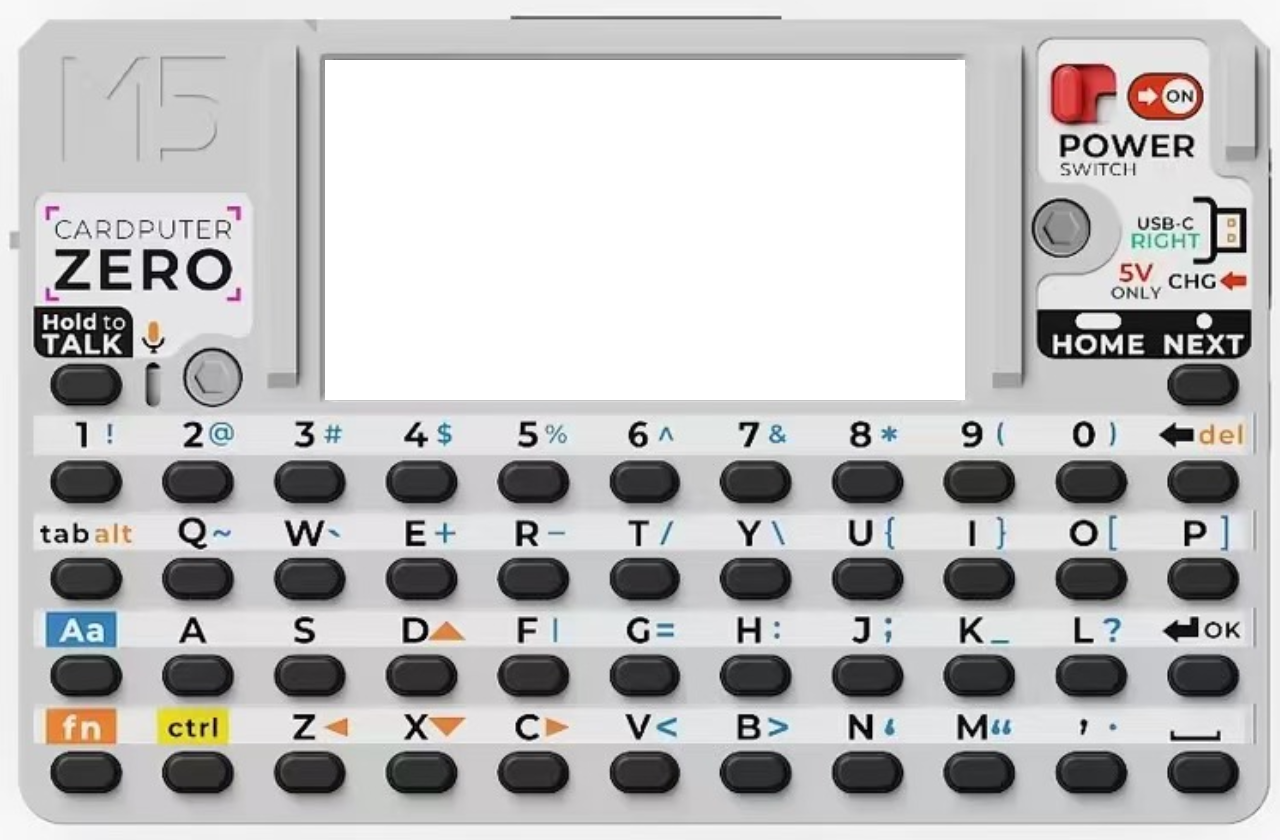
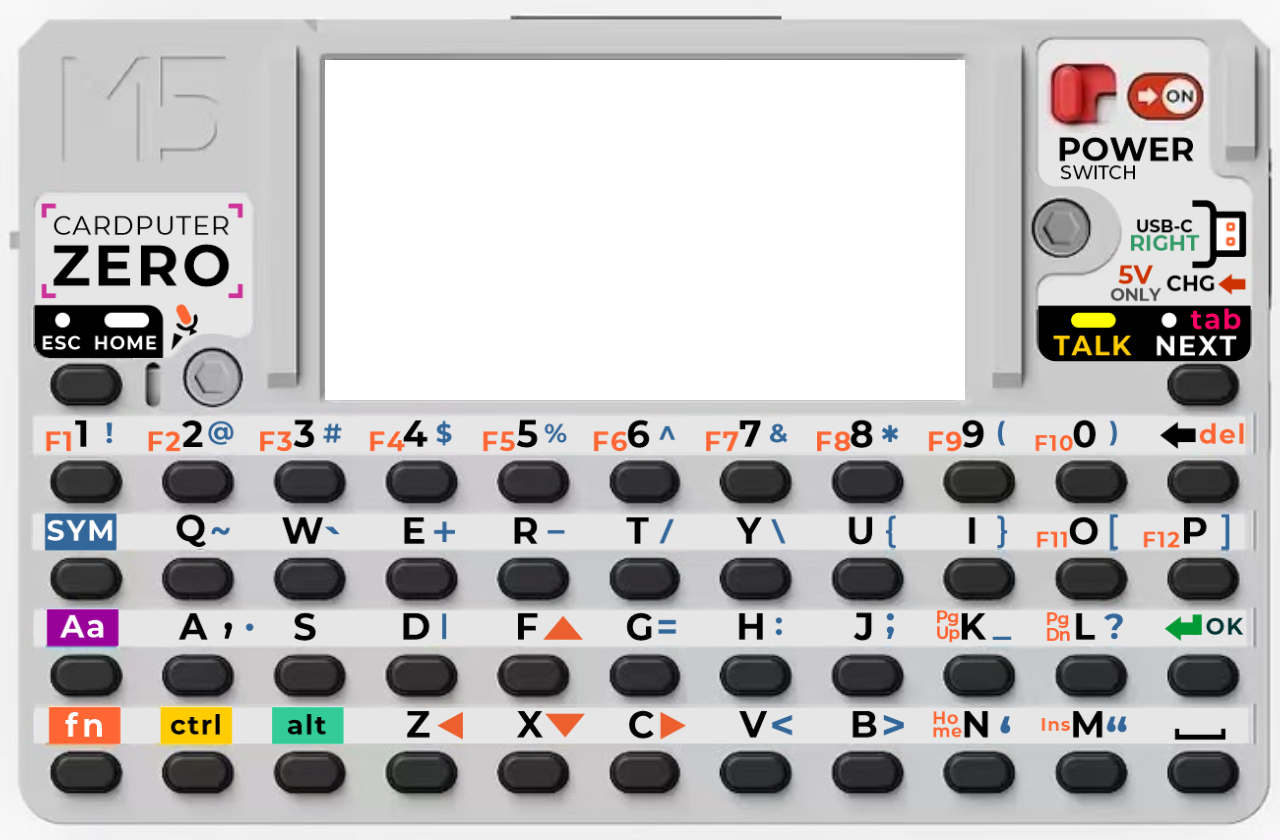
Update skin + restore bottom row + add SYM/alt modifiers
- New skin PNG with corrected sticker labels
- Restore bottom row: fn ctrl alt Z X C V B N M space
- 5 modifier keys with toggle + colored highlights:
  SYM=green, Aa=purple, fn=orange, ctrl=blue, alt=yellow
- Normal keys flash red on press

diff --git a/src/main.cpp b/src/main.cpp
@@ -20,21 +20,61 @@ static constexpr float SCALE = 0.5f;
 
 struct KeyRect { int x, y, w, h; SDL_Keycode key; };
 static KeyRect g_keys[4][11] = {
+    // Row 0: 1-0 del
     {{51,461,70,41,SDLK_1},{162,461,71,42,SDLK_2},{274,461,71,41,SDLK_3},{386,461,71,41,SDLK_4},
      {497,461,71,41,SDLK_5},{610,461,69,41,SDLK_6},{720,461,71,42,SDLK_7},{832,461,71,42,SDLK_8},
      {944,461,70,42,SDLK_9},{1056,461,71,41,SDLK_0},{1168,461,70,42,SDLK_BACKSPACE}},
+    // Row 1: tab Q-P
     {{51,558,71,42,SDLK_TAB},{162,558,71,42,SDLK_q},{274,558,71,42,SDLK_w},{386,558,70,42,SDLK_e},
      {497,558,71,42,SDLK_r},{610,558,69,42,SDLK_t},{720,558,71,42,SDLK_y},{832,558,71,42,SDLK_u},
      {944,558,70,42,SDLK_i},{1056,558,71,42,SDLK_o},{1168,558,70,42,SDLK_p}},
+    // Row 2: Aa A-L OK
     {{51,655,70,41,SDLK_LSHIFT},{162,655,71,41,SDLK_a},{274,655,71,41,SDLK_s},{386,655,70,41,SDLK_d},
      {497,655,71,41,SDLK_f},{610,655,69,41,SDLK_g},{720,655,71,41,SDLK_h},{832,655,71,41,SDLK_j},
      {944,655,70,41,SDLK_k},{1056,655,71,42,SDLK_l},{1168,655,70,41,SDLK_RETURN}},
-    // Row 3: fn ctrl Z X C V B N M '. space
-    {{51,752,70,41,SDLK_ESCAPE},{162,752,71,41,SDLK_LCTRL},{274,752,71,41,SDLK_z},
-     {386,752,70,41,SDLK_x},{497,752,71,41,SDLK_c},{610,752,69,41,SDLK_v},
-     {720,752,71,41,SDLK_b},{832,752,71,41,SDLK_n},{944,752,70,41,SDLK_m},
-     {1056,752,71,41,SDLK_PERIOD},{1168,752,70,41,SDLK_SPACE}},
+    // Row 3: fn ctrl alt Z X C V B N M space
+    {{51,752,70,41,SDLK_ESCAPE},{162,752,71,41,SDLK_LCTRL},{274,752,71,41,SDLK_LALT},
+     {386,752,70,41,SDLK_z},{497,752,71,41,SDLK_x},{610,752,69,41,SDLK_c},
+     {720,752,71,41,SDLK_v},{832,752,71,41,SDLK_b},{944,752,70,41,SDLK_n},
+     {1056,752,71,41,SDLK_m},{1168,752,70,41,SDLK_SPACE}},
 };
+
+// ── Modifier key indices ────────────────────────────────────────
+// SYM = row1,col0   Aa = row2,col0   fn = row3,col0   ctrl = row3,col1   alt = row3,col2
+#define MOD_SYM_R  1
+#define MOD_SYM_C  0
+#define MOD_AA_R   2
+#define MOD_AA_C   0
+#define MOD_FN_R   3
+#define MOD_FN_C   0
+#define MOD_CTRL_R 3
+#define MOD_CTRL_C 1
+#define MOD_ALT_R  3
+#define MOD_ALT_C  2
+
+static bool g_mod_sym  = false;  // Symbol layer
+static bool g_mod_aa   = false;  // CapsLock / Shift
+static bool g_mod_fn   = false;  // Fn layer
+static bool g_mod_ctrl = false;  // Ctrl
+static bool g_mod_alt  = false;  // Alt
+
+static bool is_modifier(int r, int c)
+{
+    return (r == MOD_SYM_R && c == MOD_SYM_C) ||
+           (r == MOD_AA_R && c == MOD_AA_C) ||
+           (r == MOD_FN_R && c == MOD_FN_C) ||
+           (r == MOD_CTRL_R && c == MOD_CTRL_C) ||
+           (r == MOD_ALT_R && c == MOD_ALT_C);
+}
+
+static void toggle_modifier(int r, int c)
+{
+    if (r == MOD_SYM_R && c == MOD_SYM_C)   g_mod_sym = !g_mod_sym;
+    if (r == MOD_AA_R && c == MOD_AA_C)      g_mod_aa = !g_mod_aa;
+    if (r == MOD_FN_R && c == MOD_FN_C)      g_mod_fn = !g_mod_fn;
+    if (r == MOD_CTRL_R && c == MOD_CTRL_C)  g_mod_ctrl = !g_mod_ctrl;
+    if (r == MOD_ALT_R && c == MOD_ALT_C)    g_mod_alt = !g_mod_alt;
+}
 
 static int g_pr = -1, g_pc = -1;
 static SDL_Window   *g_win = nullptr;
@@ -43,7 +83,6 @@ static SDL_Texture  *g_skin_tex = nullptr;
 static SDL_Texture  *g_lcd_tex = nullptr;
 static uint32_t     *g_lcd_buf = nullptr;
 
-// Function pointers loaded from app dylib
 typedef void (*sdl_kbd_handler_fn)(SDL_Event *);
 typedef void *(*sdl_kbd_create_fn)(void);
 static sdl_kbd_handler_fn g_kbd_handler = nullptr;
@@ -79,7 +118,7 @@ static void flush_cb(lv_display_t *, const lv_area_t *area, uint8_t *px)
     lv_display_flush_ready(lv_display_get_default());
 }
 
-// ── Inject SDL key event (for virtual keyboard clicks) ──────────
+// ── Inject SDL key event ────────────────────────────────────────
 static void inject_sdl_key(SDL_Keycode key, bool down)
 {
     SDL_Event ev = {};
@@ -90,7 +129,6 @@ static void inject_sdl_key(SDL_Keycode key, bool down)
     ev.key.state = down ? SDL_PRESSED : SDL_RELEASED;
     if (g_kbd_handler) g_kbd_handler(&ev);
 
-    // Also send TEXTINPUT for printable chars
     if (down && key >= 0x20 && key < 0x7f && g_kbd_handler) {
         SDL_Event te = {};
         te.type = SDL_TEXTINPUT;
@@ -101,31 +139,41 @@ static void inject_sdl_key(SDL_Keycode key, bool down)
     }
 }
 
+// ── Draw highlight rect on a key ────────────────────────────────
+static void draw_key_highlight(int r, int c, uint8_t cr, uint8_t cg, uint8_t cb, uint8_t ca)
+{
+    auto &k = g_keys[r][c];
+    SDL_SetRenderDrawBlendMode(g_ren, SDL_BLENDMODE_BLEND);
+    SDL_SetRenderDrawColor(g_ren, cr, cg, cb, ca);
+    SDL_Rect kr = {(int)(k.x*SCALE),(int)(k.y*SCALE),
+                   (int)(k.w*SCALE),(int)(k.h*SCALE)};
+    SDL_RenderFillRect(g_ren, &kr);
+}
+
 static void render()
 {
     SDL_SetRenderDrawColor(g_ren, 0, 0, 0, 255);
     SDL_RenderClear(g_ren);
 
-    // Skin background
     SDL_RenderCopy(g_ren, g_skin_tex, nullptr, nullptr);
 
-    // LCD content
     SDL_UpdateTexture(g_lcd_tex, nullptr, g_lcd_buf, LCD_W * 4);
     SDL_Rect lcd_dst = {(int)(LCD_SX*SCALE),(int)(LCD_SY*SCALE),
                         (int)(LCD_SW*SCALE),(int)(LCD_SH*SCALE)};
     SDL_RenderCopy(g_ren, g_lcd_tex, nullptr, &lcd_dst);
 
-    // Skin overlay (transparent LCD hole lets content show)
     SDL_RenderCopy(g_ren, g_skin_tex, nullptr, nullptr);
 
-    // Key press highlight
-    if (g_pr >= 0) {
-        auto &k = g_keys[g_pr][g_pc];
-        SDL_SetRenderDrawBlendMode(g_ren, SDL_BLENDMODE_BLEND);
-        SDL_SetRenderDrawColor(g_ren, 255, 50, 50, 100);
-        SDL_Rect kr = {(int)(k.x*SCALE),(int)(k.y*SCALE),
-                       (int)(k.w*SCALE),(int)(k.h*SCALE)};
-        SDL_RenderFillRect(g_ren, &kr);
+    // Active modifier highlights (persistent color)
+    if (g_mod_sym)  draw_key_highlight(MOD_SYM_R,  MOD_SYM_C,  0, 170, 85, 120);   // green
+    if (g_mod_aa)   draw_key_highlight(MOD_AA_R,   MOD_AA_C,   180, 50, 220, 120);  // purple
+    if (g_mod_fn)   draw_key_highlight(MOD_FN_R,   MOD_FN_C,   238, 153, 0, 120);   // orange
+    if (g_mod_ctrl) draw_key_highlight(MOD_CTRL_R, MOD_CTRL_C, 50, 120, 255, 120);  // blue
+    if (g_mod_alt)  draw_key_highlight(MOD_ALT_R,  MOD_ALT_C,  220, 220, 0, 120);   // yellow
+
+    // Normal key press highlight (red flash)
+    if (g_pr >= 0 && !is_modifier(g_pr, g_pc)) {
+        draw_key_highlight(g_pr, g_pc, 255, 50, 50, 100);
     }
 
     SDL_RenderPresent(g_ren);
@@ -143,6 +191,7 @@ int main(int argc, char *argv[])
     printf("  App : %s\n", app_path);
     printf("  LCD : %dx%d  Window: %dx%d\n",
            LCD_W, LCD_H, (int)(SKIN_W*SCALE), (int)(SKIN_H*SCALE));
+    printf("  Modifiers: click Aa/fn/ctrl to toggle\n");
     printf("========================================\n");
 
     SDL_Init(SDL_INIT_VIDEO);
@@ -155,19 +204,16 @@ int main(int argc, char *argv[])
     g_ren = SDL_CreateRenderer(g_win, -1,
         SDL_RENDERER_ACCELERATED | SDL_RENDERER_PRESENTVSYNC);
 
-    // Skin texture
     SDL_Surface *surf = IMG_Load("assets/device_skin.png");
     if (!surf) { fprintf(stderr, "skin: %s\n", IMG_GetError()); return 1; }
     g_skin_tex = SDL_CreateTextureFromSurface(g_ren, surf);
     SDL_SetTextureBlendMode(g_skin_tex, SDL_BLENDMODE_BLEND);
     SDL_FreeSurface(surf);
 
-    // LCD texture
     g_lcd_tex = SDL_CreateTexture(g_ren, SDL_PIXELFORMAT_ARGB8888,
         SDL_TEXTUREACCESS_STREAMING, LCD_W, LCD_H);
     g_lcd_buf = (uint32_t *)calloc(LCD_W * LCD_H, sizeof(uint32_t));
 
-    // LVGL init
     lv_init();
     static uint8_t draw_buf[LCD_W * LCD_H * 2];
     lv_display_t *disp = lv_display_create(LCD_W, LCD_H);
@@ -176,73 +222,53 @@ int main(int argc, char *argv[])
                            LV_DISPLAY_RENDER_MODE_PARTIAL);
     lv_display_set_color_format(disp, LV_COLOR_FORMAT_RGB565);
 
-    // Load app
     void *app = dlopen(app_path, RTLD_NOW | RTLD_GLOBAL);
     if (!app) { fprintf(stderr, "[EMU] dlopen: %s\n", dlerror()); return 1; }
     printf("[EMU] Loaded: %s\n", app_path);
 
-    // Try to find app's keyboard handler (APPLaunch overrides lv_sdl_keyboard_*)
     auto kbd_create = (sdl_kbd_create_fn)dlsym(app, "lv_sdl_keyboard_create");
     g_kbd_handler = (sdl_kbd_handler_fn)dlsym(app, "lv_sdl_keyboard_handler");
 
-    printf("[EMU] kbd_create=%p  kbd_handler=%p\n", (void*)kbd_create, (void*)g_kbd_handler);
-
     if (kbd_create) {
-        printf("[EMU] Using app keyboard driver\n");
-        void *indev = kbd_create();
-        printf("[EMU] kbd_create returned indev=%p\n", indev);
+        kbd_create();
+        printf("[EMU] App keyboard driver loaded\n");
     } else {
-        printf("[EMU] Using built-in keyboard driver\n");
         lv_indev_t *kb = lv_indev_create();
         lv_indev_set_type(kb, LV_INDEV_TYPE_KEYPAD);
+        printf("[EMU] Built-in keyboard driver\n");
     }
 
-    // List all indevs
-    {
-        lv_indev_t *id = lv_indev_get_next(NULL);
-        int n = 0;
-        while (id) { n++; printf("[EMU] indev #%d: type=%d\n", n, lv_indev_get_type(id)); id = lv_indev_get_next(id); }
-        printf("[EMU] Total indevs: %d\n", n);
-    }
-
-    // Init app
     auto init = (ui_init_fn)dlsym(app, "ui_init");
     if (!init) { fprintf(stderr, "[EMU] ui_init missing\n"); return 1; }
     init();
-    printf("[EMU] Running. Keyboard active.\n");
+    printf("[EMU] Running.\n");
 
     while (true) {
         SDL_Event ev;
         while (SDL_PollEvent(&ev)) {
             if (ev.type == SDL_QUIT) goto done;
 
-            // Virtual keyboard clicks
             if (ev.type == SDL_MOUSEBUTTONDOWN) {
                 int r, c;
                 if (hit_key(ev.button.x, ev.button.y, &r, &c)) {
-                    g_pr = r; g_pc = c;
-                    printf("[EMU] vkey click row=%d col=%d sdlk=%d mouse=(%d,%d) skin=(%d,%d)\n",
-                           r, c, g_keys[r][c].key, ev.button.x, ev.button.y,
-                           (int)(ev.button.x/SCALE), (int)(ev.button.y/SCALE));
-                    inject_sdl_key(g_keys[r][c].key, true);
+                    if (is_modifier(r, c)) {
+                        // Toggle modifier on click
+                        toggle_modifier(r, c);
+                        printf("[EMU] modifiers: SYM=%d Aa=%d fn=%d ctrl=%d alt=%d\n",
+                               g_mod_sym, g_mod_aa, g_mod_fn, g_mod_ctrl, g_mod_alt);
+                    } else {
+                        g_pr = r; g_pc = c;
+                        inject_sdl_key(g_keys[r][c].key, true);
+                    }
                 }
             }
             else if (ev.type == SDL_MOUSEBUTTONUP && g_pr >= 0) {
                 inject_sdl_key(g_keys[g_pr][g_pc].key, false);
                 g_pr = -1;
             }
-            // PC keyboard → forward to app's SDL keyboard handler
             else if (ev.type == SDL_KEYDOWN || ev.type == SDL_KEYUP ||
                      ev.type == SDL_TEXTINPUT) {
-                if (ev.type == SDL_KEYDOWN)
-                    printf("[EMU] SDL_KEYDOWN sym=%d scan=%d winID=%d\n", ev.key.keysym.sym, ev.key.keysym.scancode, ev.key.windowID);
-                if (ev.type == SDL_TEXTINPUT)
-                    printf("[EMU] SDL_TEXTINPUT text='%s' winID=%d\n", ev.text.text, ev.text.windowID);
-                if (g_kbd_handler) {
-                    g_kbd_handler(&ev);
-                } else {
-                    printf("[EMU] NO kbd_handler!\n");
-                }
+                if (g_kbd_handler) g_kbd_handler(&ev);
             }
         }
 
